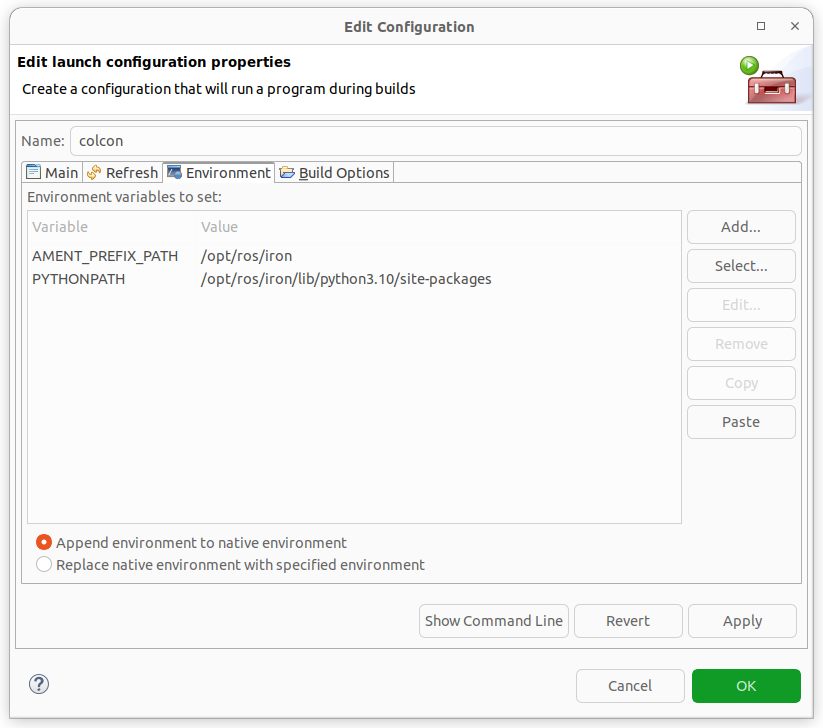
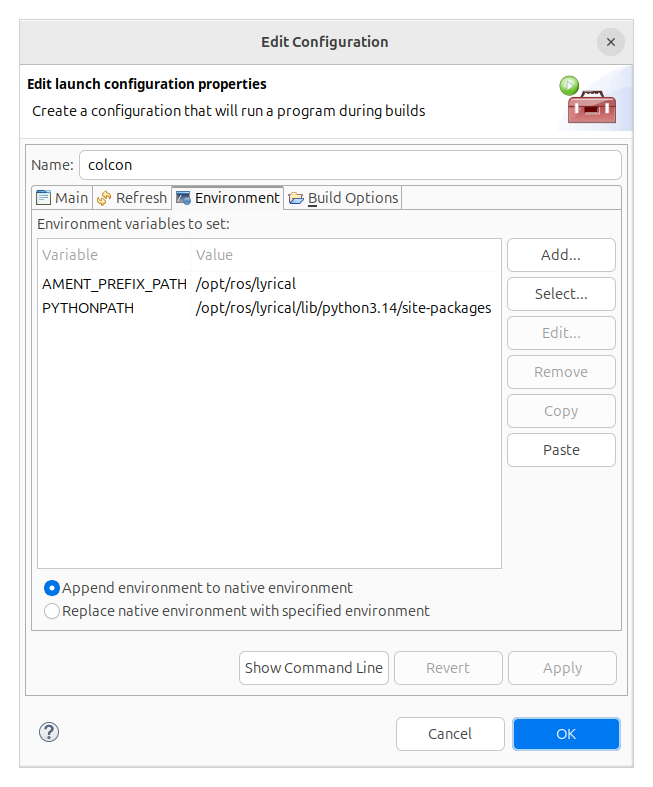
Update Eclipse tutorial screenshots and ROS path examples

diff --git a/source/Tutorials/Miscellaneous/Building-ROS2-Package-with-eclipse-2021-06.rst b/source/Tutorials/Miscellaneous/Building-ROS2-Package-with-eclipse-2021-06.rst
@@ -69,7 +69,7 @@ We see in the source code that the C++ includes got resolved but not the ROS 2 o
    :alt: eclipse_c++_path_and_symbols
 
 Add include paths of needed packages.
-(e.g. **/opt/ros/iron/include/rclcpp**, **/opt/ros/iron/include/std_msgs**, etc.)
+(e.g. **/opt/ros/lyrical/include/rclcpp**, **/opt/ros/lyrical/include/std_msgs**, etc.)
 
 .. image:: images/eclipse_c++_add_directory_path.png
    :target: ../../_images/eclipse_c++_add_directory_path.png
